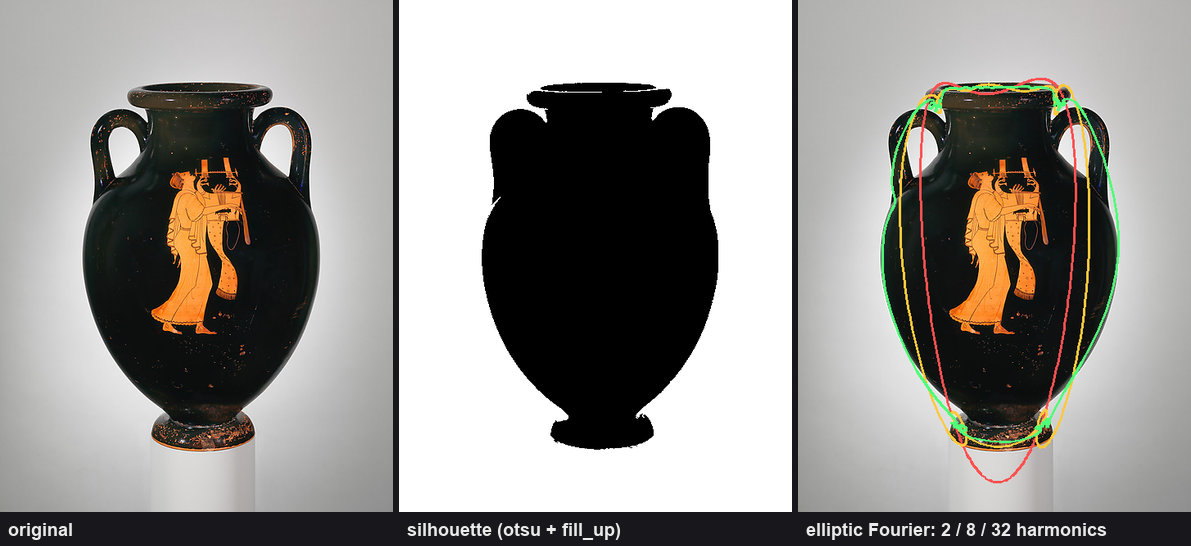
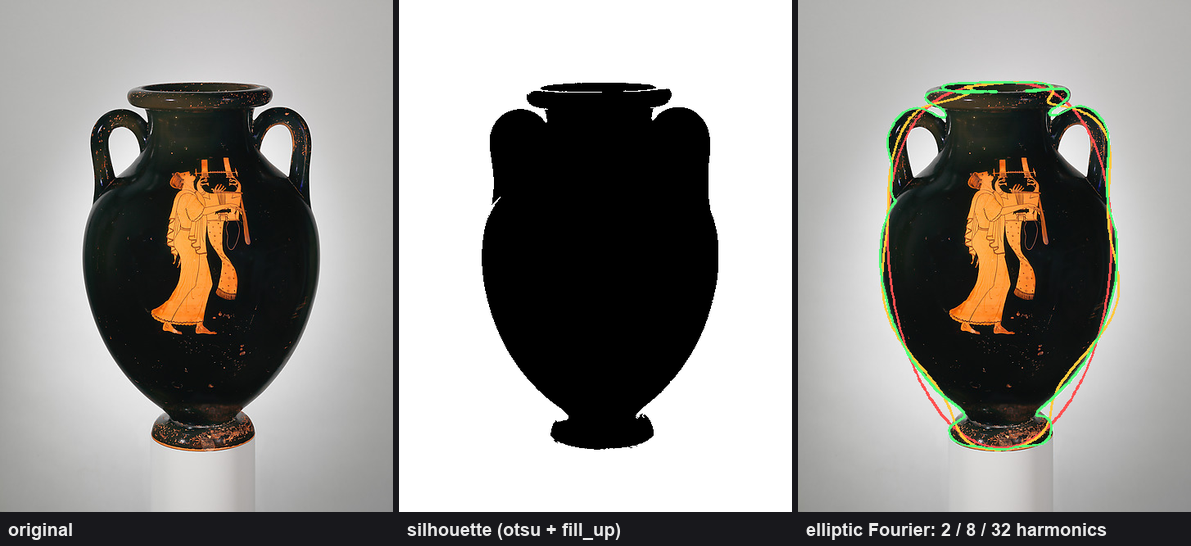
auto: studio.py 編集前 (2026-08-30 16:20)

Changed region(s): [[0.7145, 0.1245, 0.9631, 0.8718]]

diff --git a/tools/gen_academic_gallery.py b/tools/gen_academic_gallery.py
@@ -606,13 +606,11 @@ def rec_efd(col):
     if not objs:
         raise RuntimeError("EFD: no object found")
     mask = max(objs, key=lambda o: o["area"])["mask"]
-    # boundary pixels
-    from scipy import ndimage as ndi
-    bnd = mask & ~ndi.binary_erosion(mask)
-    ys, xs = np.nonzero(bnd)
-    cy, cx = ys.mean(), xs.mean()
-    order = np.argsort(np.arctan2(ys - cy, xs - cx))
-    pts = np.stack([ys[order], xs[order]], axis=1).astype(float)
+    # Ordered boundary trace (marching squares). Angle-sort fails on
+    # non-star-convex shapes (amphora handles), so trace properly.
+    from skimage import measure
+    contours = measure.find_contours(mask.astype(float), 0.5)
+    pts = max(contours, key=len)  # (row, col), ordered
     model = fd.elliptic_fourier(pts, 40)
     base = to_u8(col)
     im = Image.fromarray(base)

diff --git a/docs/articles/assets/_academic_gallery_snippet.md b/docs/articles/assets/_academic_gallery_snippet.md
@@ -1,7 +1,7 @@
 <!-- 記事貼り付け用スニペット: 学問分野横断ギャラリー (gen_academic_gallery.py) -->
 <!-- 画像はサムネ(720px JPG)。フル解像度は _thumb を外した .png -->
 
-## 地質学
+## 考古学
 
-![geo_earth](https://raw.githubusercontent.com/furuse-kazufumi/fullseye/master/docs/articles/assets/academic_geo_earth_thumb.jpg)
-*衛星画像の岩相を decorrelation stretch(リモートセンシング定番)で強調(op: `principal_comp`, `rgb1_to_gray`, `clahe`)。素材: JSC — Public domain (NASA)([出典](https://images.nasa.gov/details/SL2-04-018))*
+![arch_amphora](https://raw.githubusercontent.com/furuse-kazufumi/fullseye/master/docs/articles/assets/academic_arch_amphora_thumb.jpg)
+*土器シルエットを楕円フーリエ記述子(EFD)で形状復元(2/8/32 高調波)(op: `rgb1_to_gray`, `otsu`, `fill_up`, `segment_objects`, `fourierdesc.elliptic_fourier`, `fourierdesc.reconstruct`)。素材: The Metropolitan Museum of Art — CC0 (The Met Open Access)([出典](https://www.metmuseum.org/art/collection/search/254896))*

diff --git a/docs/articles/assets/ACADEMIC_ATTRIBUTION.md b/docs/articles/assets/ACADEMIC_ATTRIBUTION.md
@@ -6,6 +6,6 @@
 
 | 画像 | 分野 | 素材 | AI 生成 | 出典 / ライセンス | 使用 op |
 |---|---|---|---|---|---|
-| `academic_geo_earth.png` | 地質学 | Lake Powell, Colorado River, Utah and Grand Canyon, Arizona | No | [JSC](https://images.nasa.gov/details/SL2-04-018) — Public domain (NASA) | principal_comp, rgb1_to_gray, clahe |
+| `academic_arch_amphora.png` | 考古学 | Terracotta amphora (jar) | No | [The Metropolitan Museum of Art](https://www.metmuseum.org/art/collection/search/254896) — CC0 (The Met Open Access) | rgb1_to_gray, otsu, fill_up, segment_objects, fourierdesc.elliptic_fourier, fourierdesc.reconstruct |
 
 生成日: 2026-08-30 / スクリプト: `tools/gen_academic_gallery.py`
